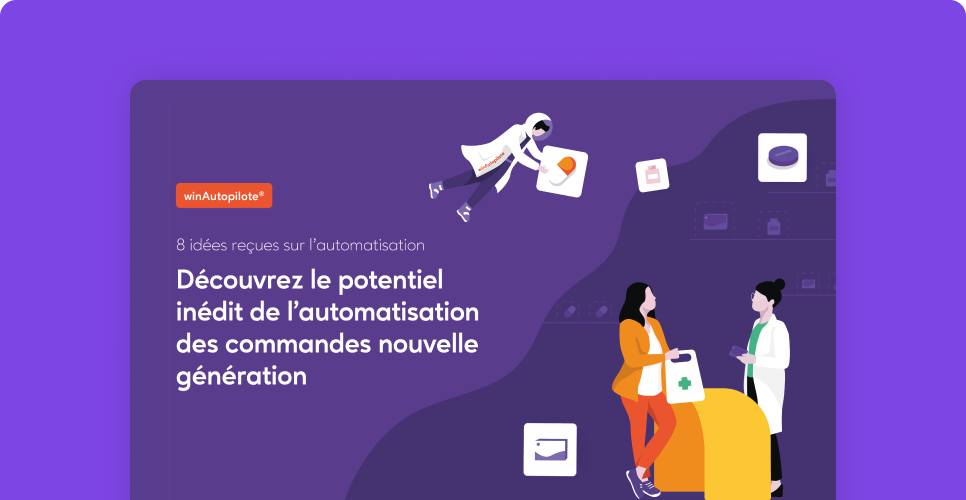
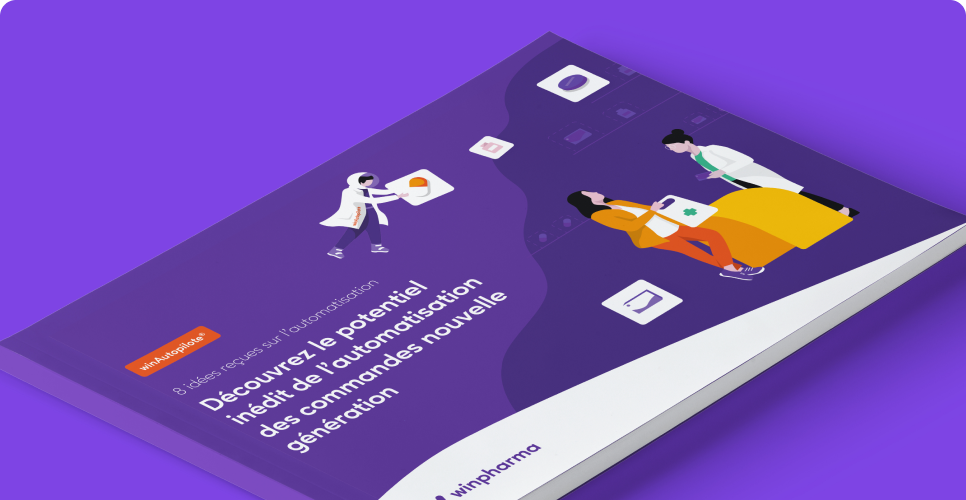
🍱💄 cards new livre blanc

diff --git a/components/Cards.vue b/components/Cards.vue
@@ -2,7 +2,7 @@
     <div ref="wrapperCards" class="wrapper-cards container">
         <a href="http://www.winpharma.com/livre-blanc-winautopilote/" class="card button-trigger">
             <div class="inner-card">
-                <span class="wrapper-img" :style="{ backgroundImage: 'url(img/livre-blanc.png)' }"></span>
+                <span class="wrapper-img full" :style="{ backgroundImage: 'url(img/livre-blanc.png)' }"></span>
                 <span class="card-txt">
                     <span class="card-txt-top">
                         <span class="card-title">winAutopilote, une méthode adaptée à toutes les officines</span>
@@ -157,6 +157,9 @@ export default {
     background-repeat: no-repeat;
     background-size: auto 100%;
     background-position: 50% 50%;
+    &.full {
+        background-size: cover;
+    }
 }
 .card-txt {
     padding: 30px 30px 40px;
